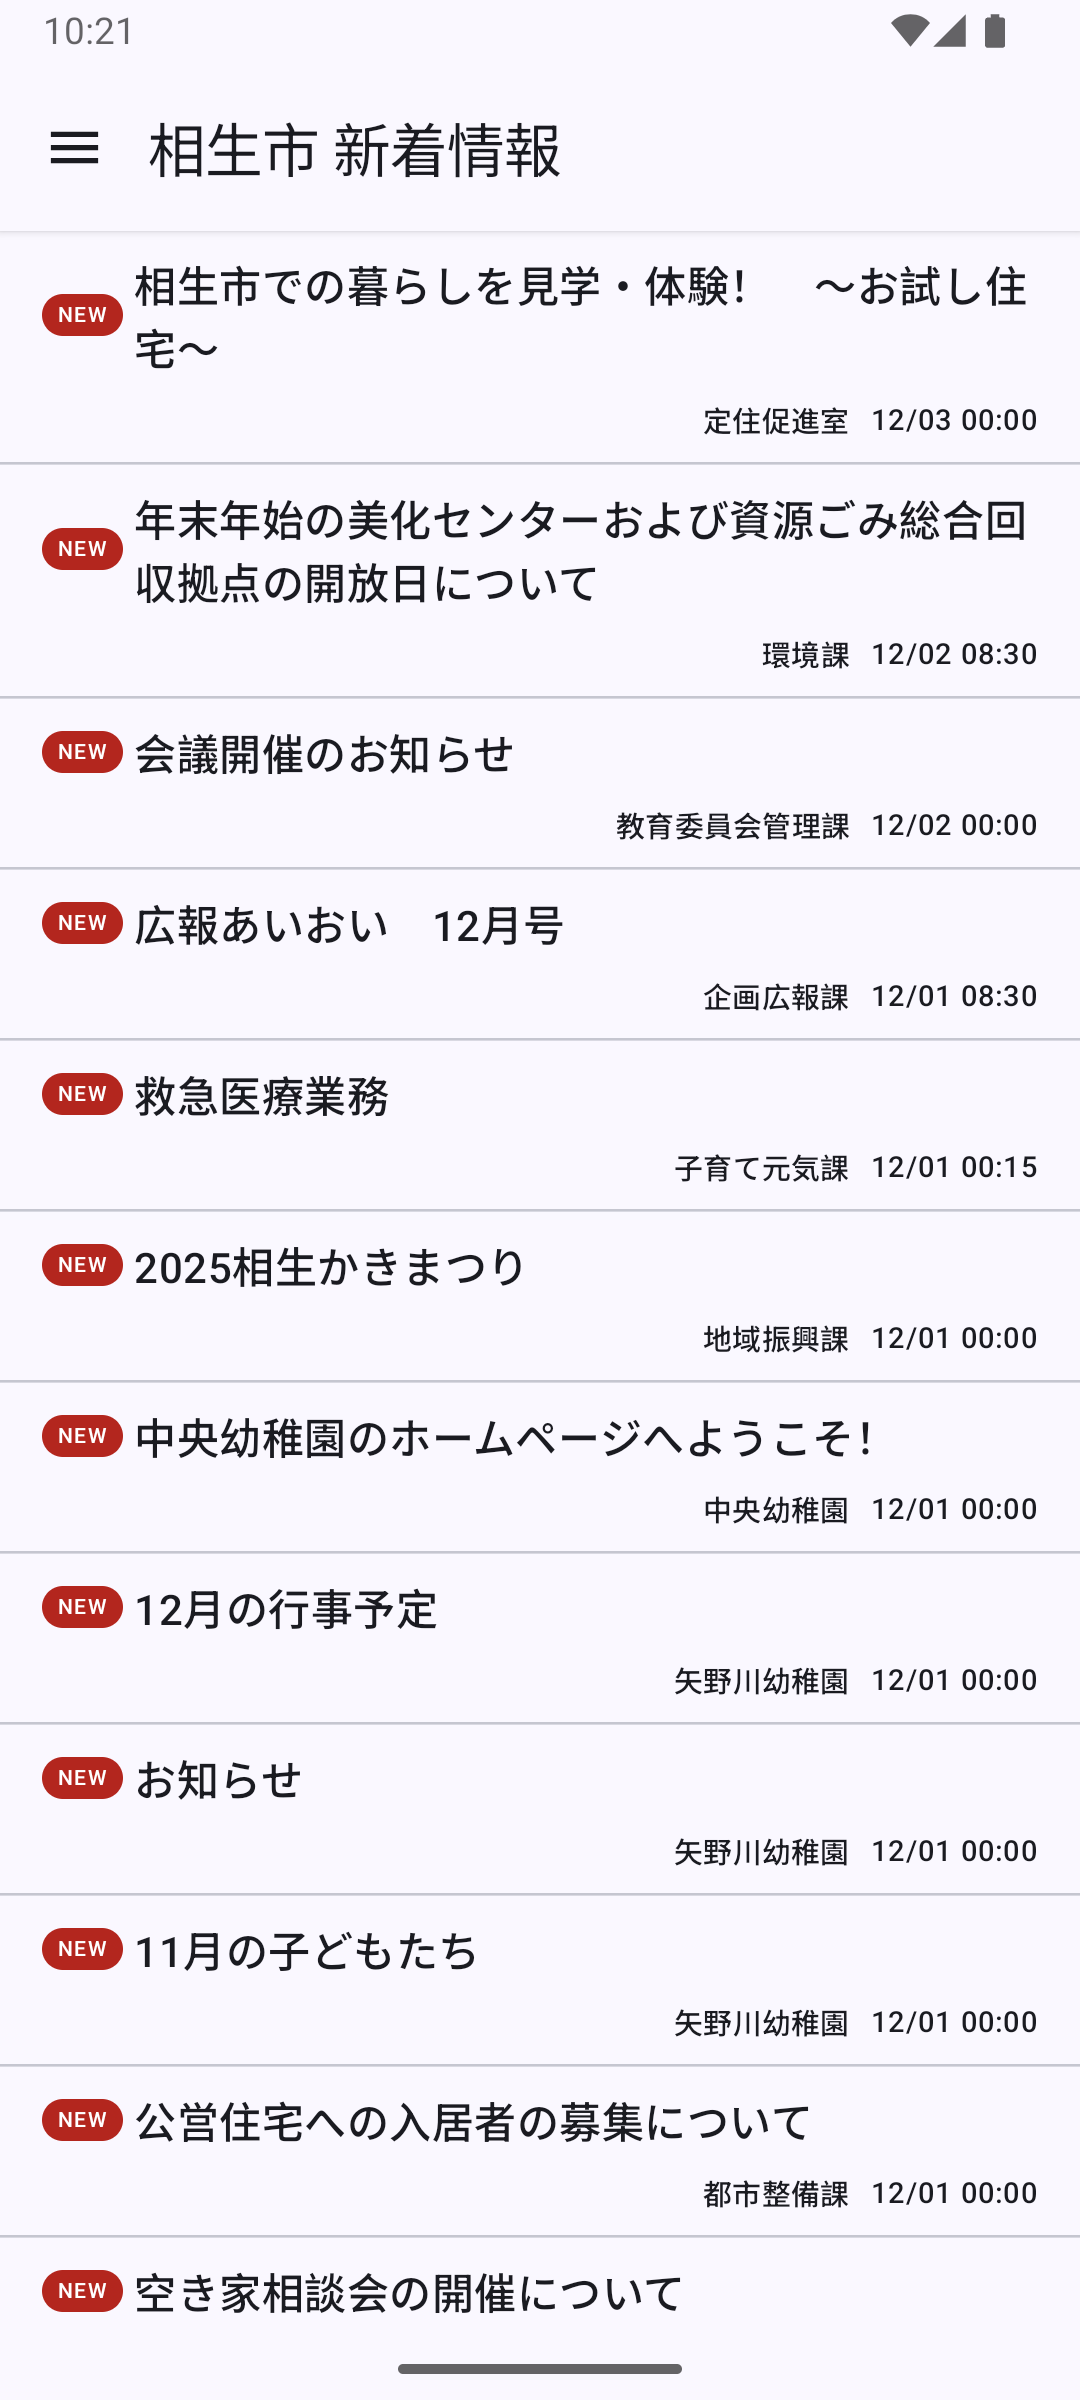
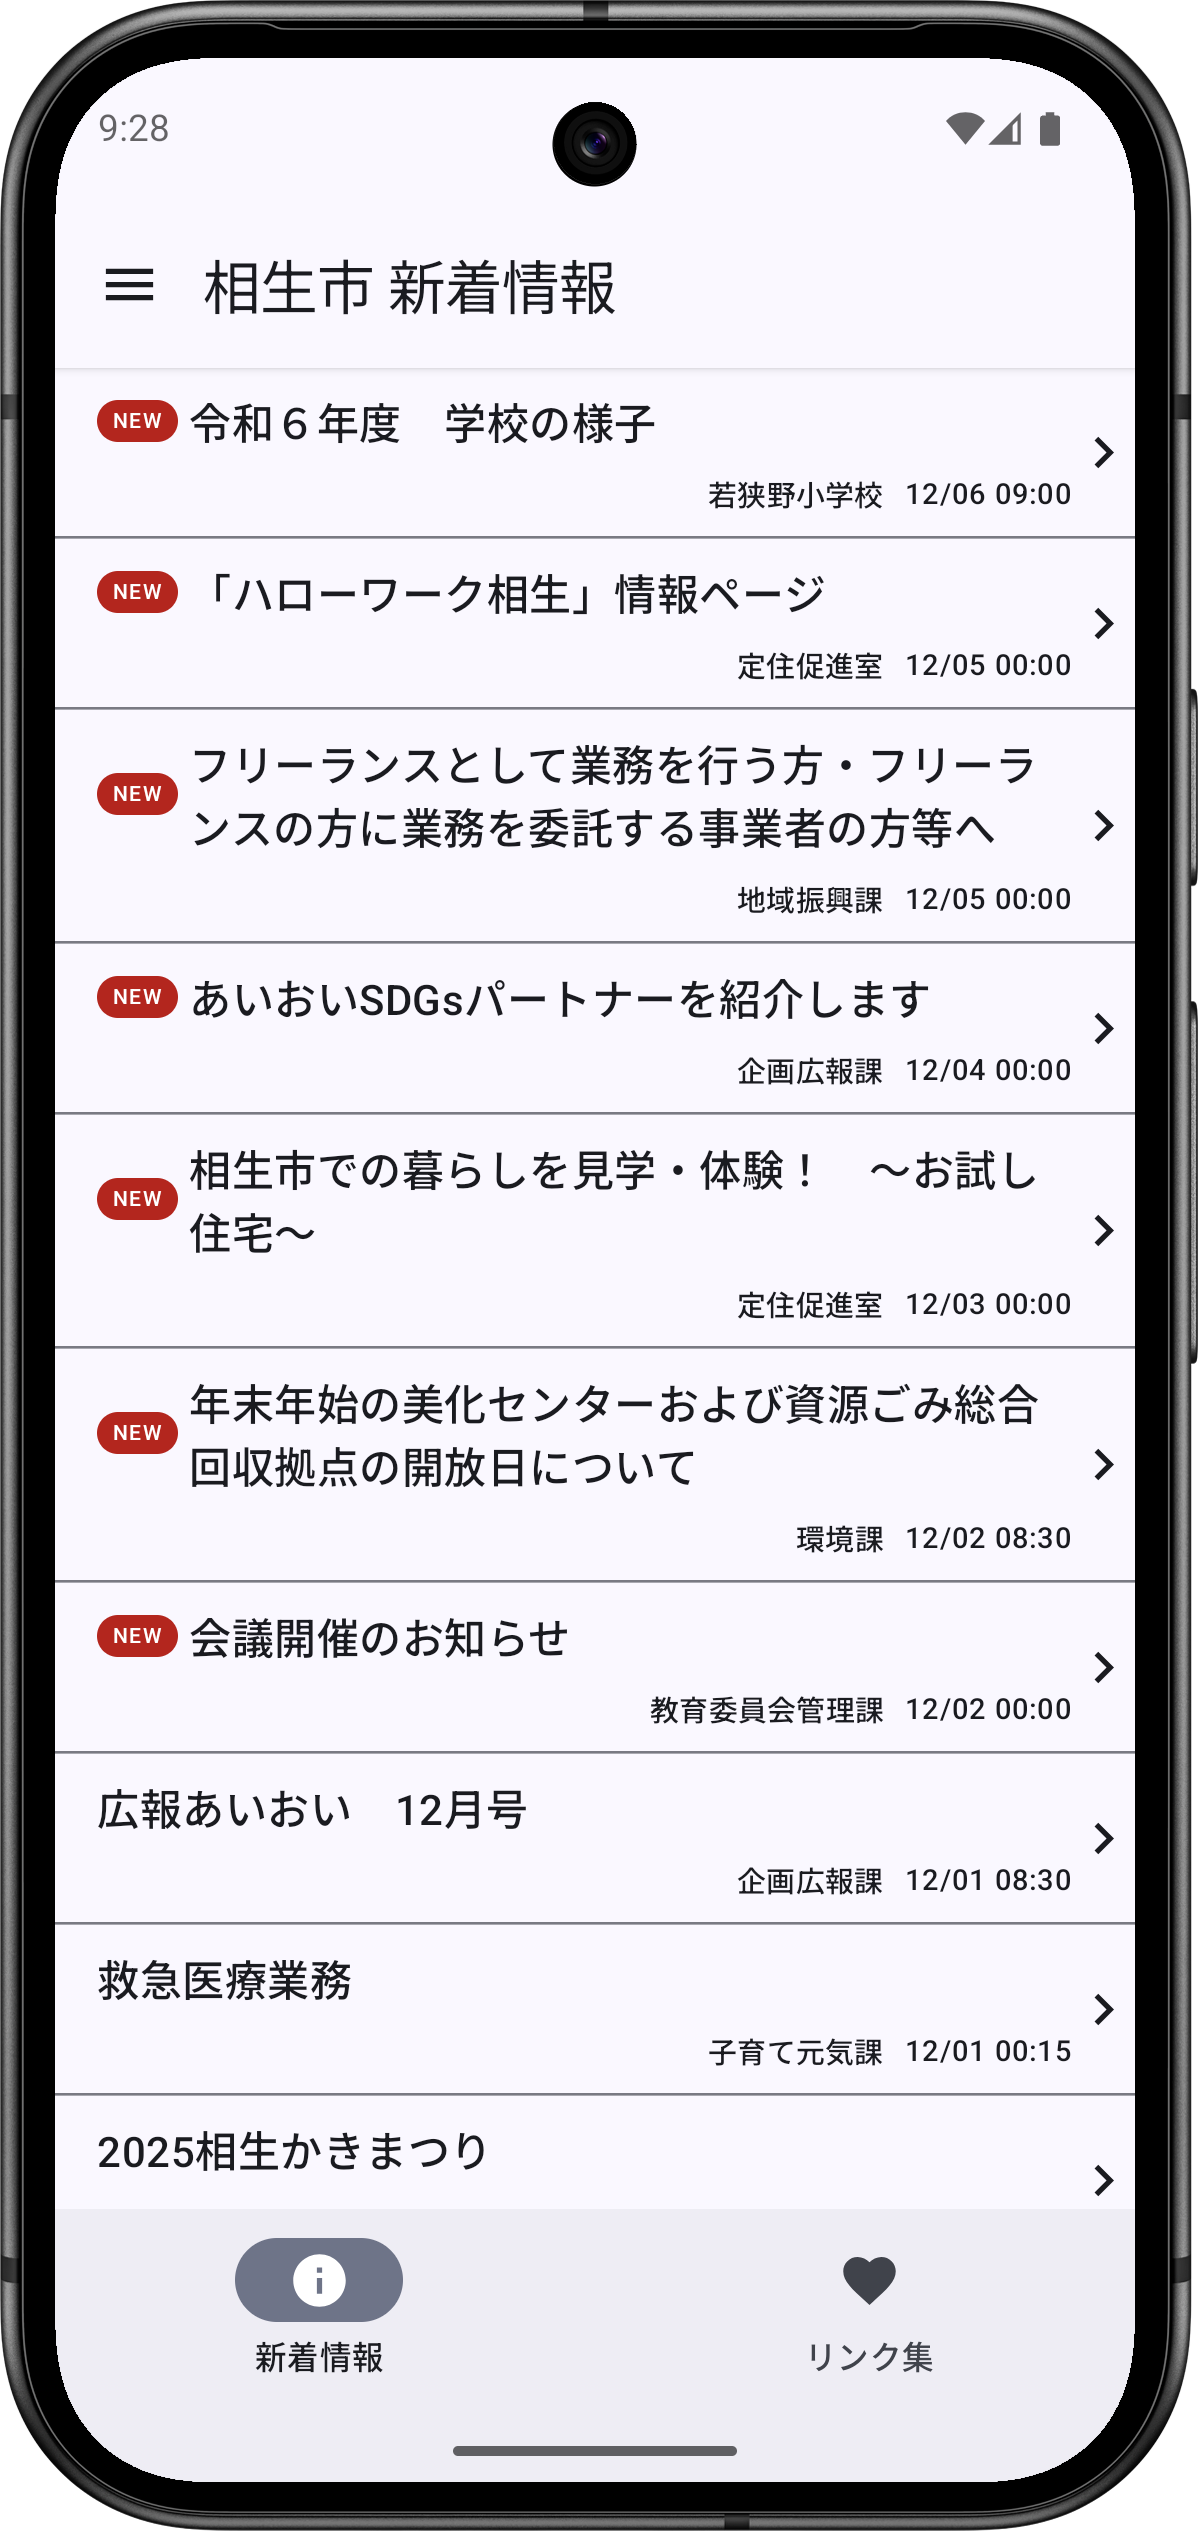
スクリーンショット更新

Changed region(s): [[0.0, 0.0, 1.0, 1.0], [0.7944, 0.0938, 0.8861, 0.125], [0.5806, 0.0938, 0.6722, 0.125]]

diff --git a/README.md b/README.md
@@ -13,9 +13,9 @@
 
 ## スクリーンショット
 
-|||
-|--|--|
-|![](readme/1.png)|![](readme/2.png)|
+|||||
+|--|--|--|--|
+| ![](readme/1.png) | ![](readme/2.png) |![](readme/3.png)|![](readme/4.png)|
 
 ## Author
 
